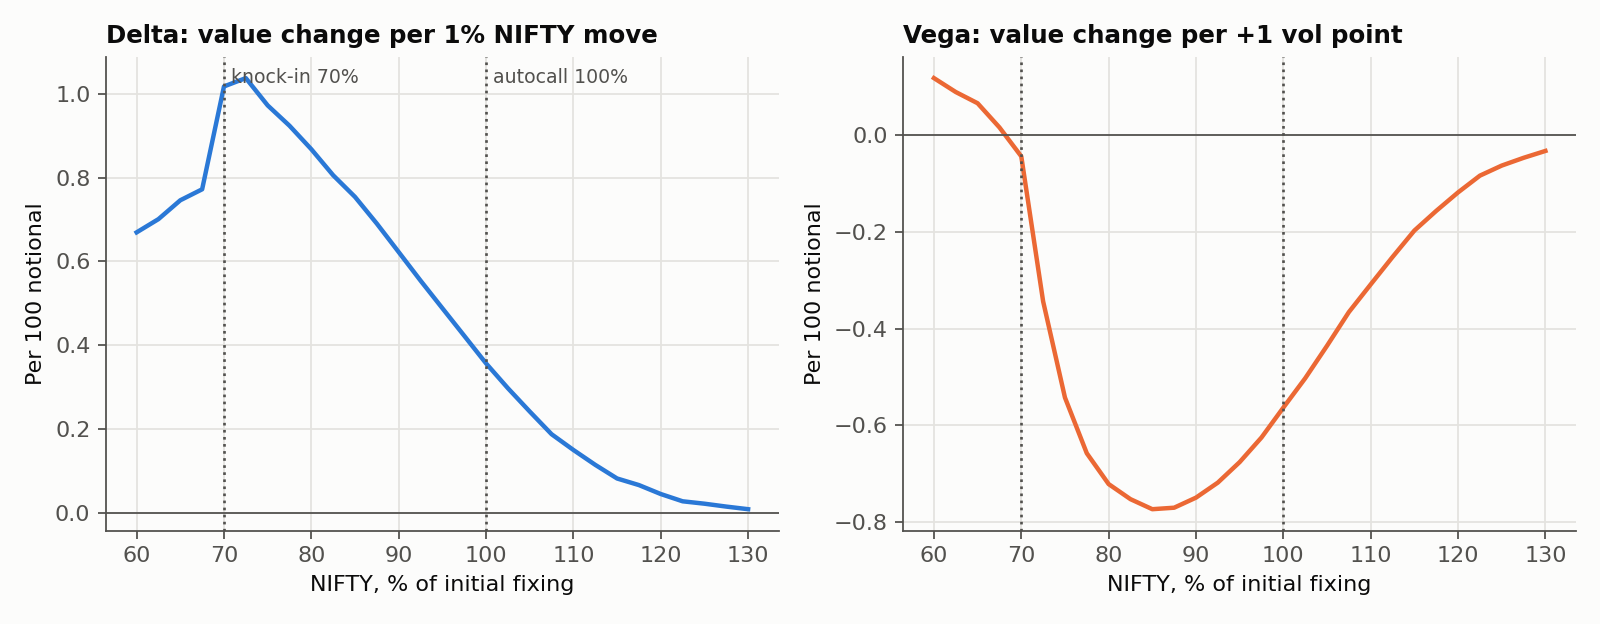
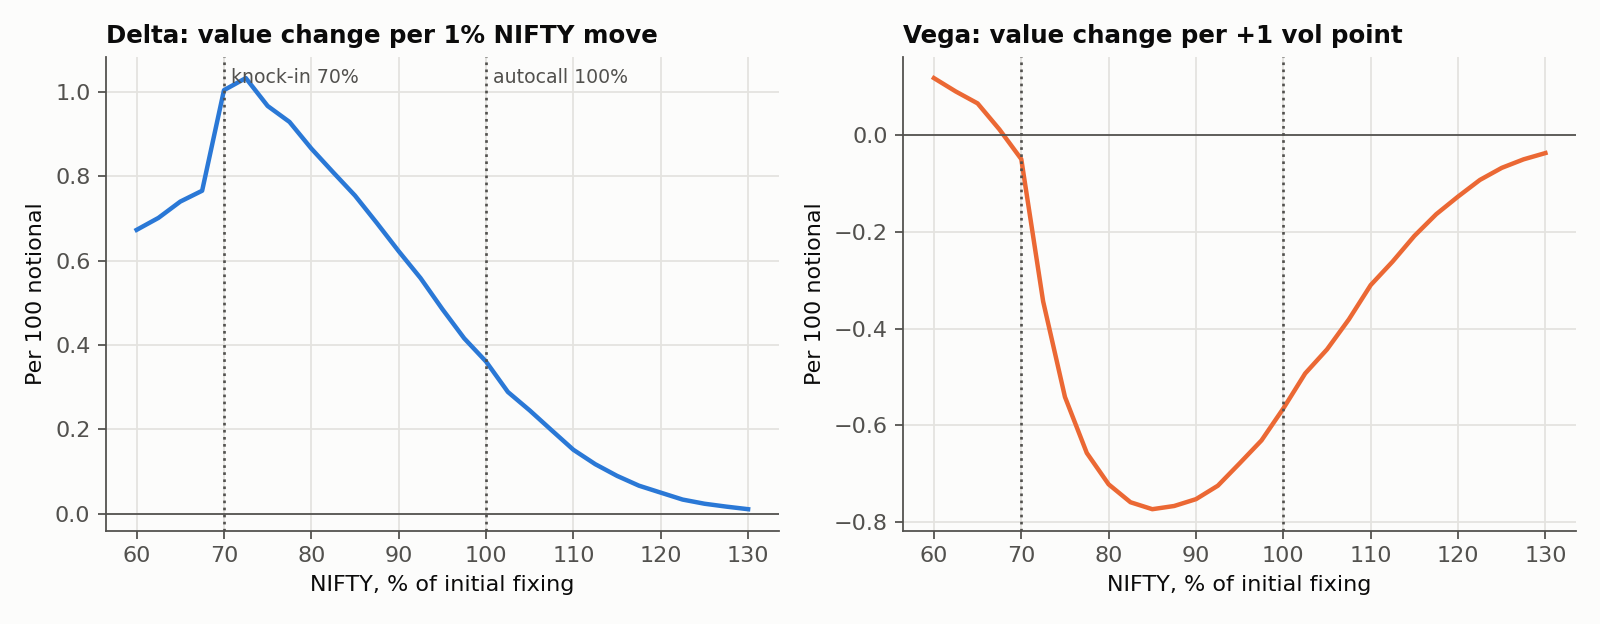
Add run_all script and regenerate results on the updated vol curve

diff --git a/scripts/layer2_autocall.py b/scripts/layer2_autocall.py
@@ -17,7 +17,7 @@ from mld.calibration import calibrate
 N = 400_000
 m = calibrate().market
 ps = simulate_for(SPEC, m, N, seed=11, antithetic=True)
-res = evaluate(SPEC, ps, m, credit_spread=SPREAD, control="full")
+res = evaluate(SPEC, ps, m, credit_spread=SPREAD, control="events")
 pv, principal, cyears, k_pay, knocked = path_pv(SPEC, ps, m, credit_spread=SPREAD)
 
 loss = principal < SPEC.notional - 1e-12
@@ -47,7 +47,7 @@ c_par = fair_coupon(SPEC, m, 100.0, N, seed=11, credit_spread=SPREAD)
 
 # Monitoring convention: daily closes vs final fixing only
 eur = replace(SPEC, ki_daily=False)
-r_eur = evaluate(eur, simulate_for(eur, m, N, seed=11, antithetic=True), m, credit_spread=SPREAD, control="full")
+r_eur = evaluate(eur, simulate_for(eur, m, N, seed=11, antithetic=True), m, credit_spread=SPREAD, control="events")
 mon = pd.DataFrame([
     dict(barrier="Daily closes (base)", price=res.price.value, prob_ki=res.prob_ki, prob_loss=res.prob_loss),
     dict(barrier="Final fixing only", price=r_eur.price.value, prob_ki=r_eur.prob_ki, prob_loss=r_eur.prob_loss),
@@ -58,7 +58,7 @@ write_md("layer2.md", f"""
 
 Term sheet: 3y on NIFTY 50, initial fixing {m.spot:,.2f}, annual observations, autocall at 100%,
 {SPEC.coupon_rate:.0%} p.a. snowball coupon, 70% knock-in on daily closes, issuer spread {SPREAD*1e4:.0f}bp.
-{N:,} paths, antithetic with control variates.
+{N:,} paths, antithetic with event control variates (mld/analytic.py).
 
 | Item | Value (per 100) |
 |---|---|

diff --git a/scripts/run_all.py b/scripts/run_all.py
@@ -1,0 +1,25 @@
+"""Regenerate every figure and results table, in layer order.
+
+    python scripts/run_all.py
+"""
+import runpy
+import time
+from pathlib import Path
+
+HERE = Path(__file__).resolve().parent
+STEPS = [
+    "layer1_convergence.py",
+    "layer2_autocall.py",
+    "layer3_variance_reduction.py",
+    "layer3_greeks.py",
+    "layer3_scenarios.py",
+    "layer4_calibration.py",
+    "../validation/quantlib_check.py",
+]
+
+if __name__ == "__main__":
+    for step in STEPS:
+        t = time.perf_counter()
+        print(f"\n== {step}")
+        runpy.run_path(str(HERE / step), run_name="__main__")
+        print(f"   done in {time.perf_counter() - t:.0f}s")

diff --git a/results/layer3_scenarios.md b/results/layer3_scenarios.md
@@ -4,31 +4,31 @@
 
 | vol \ spot | 60% | 65% | 70% | 75% | 80% | 85% | 90% | 95% | 100% | 105% | 110% | 115% | 120% | 125% | 130% |
 |---|---|---|---|---|---|---|---|---|---|---|---|---|---|---|---|
-| 8.9% | 59.07 | 64.62 | 70.68 | 81.66 | 88.03 | 92.78 | 96.49 | 99.16 | 100.72 | 101.44 | 101.70 | 101.76 | 101.78 | 101.78 | 101.78 |
-| 11.4% | 59.49 | 65.15 | 71.08 | 79.87 | 86.24 | 91.18 | 94.99 | 97.79 | 99.69 | 100.79 | 101.36 | 101.63 | 101.73 | 101.77 | 101.78 |
-| 13.9% | 59.84 | 65.41 | 71.10 | 78.40 | 84.35 | 89.24 | 93.19 | 96.19 | 98.40 | 99.84 | 100.74 | 101.25 | 101.53 | 101.67 | 101.73 |
-| 16.4% | 59.99 | 65.43 | 70.87 | 77.15 | 82.64 | 87.37 | 91.30 | 94.45 | 96.88 | 98.64 | 99.82 | 100.60 | 101.10 | 101.42 | 101.59 |
-| 18.9% | 59.99 | 65.29 | 70.49 | 76.08 | 81.16 | 85.69 | 89.50 | 92.69 | 95.27 | 97.26 | 98.71 | 99.73 | 100.45 | 100.93 | 101.27 |
-| 21.4% | 59.87 | 64.98 | 69.96 | 75.10 | 79.83 | 84.12 | 87.84 | 91.00 | 93.67 | 95.79 | 97.44 | 98.71 | 99.60 | 100.27 | 100.73 |
-| 23.9% | 59.64 | 64.59 | 69.34 | 74.14 | 78.62 | 82.69 | 86.30 | 89.41 | 92.09 | 94.32 | 96.09 | 97.51 | 98.60 | 99.44 | 100.07 |
-| 26.4% | 59.30 | 64.09 | 68.70 | 73.24 | 77.49 | 81.36 | 84.87 | 87.90 | 90.59 | 92.86 | 94.71 | 96.26 | 97.51 | 98.47 | 99.26 |
-| 28.9% | 58.91 | 63.52 | 68.00 | 72.32 | 76.39 | 80.11 | 83.48 | 86.49 | 89.10 | 91.42 | 93.36 | 94.96 | 96.31 | 97.43 | 98.31 |
+| 8.9% | 59.07 | 64.62 | 70.70 | 81.62 | 88.00 | 92.76 | 96.45 | 99.10 | 100.67 | 101.40 | 101.68 | 101.76 | 101.78 | 101.78 | 101.78 |
+| 11.4% | 59.49 | 65.15 | 71.10 | 79.85 | 86.23 | 91.14 | 94.94 | 97.73 | 99.62 | 100.73 | 101.32 | 101.61 | 101.72 | 101.76 | 101.78 |
+| 13.9% | 59.84 | 65.41 | 71.10 | 78.36 | 84.32 | 89.25 | 93.16 | 96.13 | 98.32 | 99.78 | 100.69 | 101.21 | 101.51 | 101.66 | 101.73 |
+| 16.4% | 59.99 | 65.44 | 70.89 | 77.14 | 82.63 | 87.35 | 91.26 | 94.37 | 96.82 | 98.55 | 99.75 | 100.55 | 101.06 | 101.38 | 101.57 |
+| 18.9% | 60.02 | 65.29 | 70.48 | 76.07 | 81.13 | 85.63 | 89.44 | 92.63 | 95.18 | 97.15 | 98.62 | 99.66 | 100.39 | 100.88 | 101.23 |
+| 21.4% | 59.88 | 65.00 | 69.96 | 75.08 | 79.81 | 84.06 | 87.80 | 90.93 | 93.57 | 95.70 | 97.34 | 98.60 | 99.53 | 100.21 | 100.67 |
+| 23.9% | 59.64 | 64.59 | 69.36 | 74.13 | 78.59 | 82.64 | 86.25 | 89.34 | 92.00 | 94.24 | 96.00 | 97.42 | 98.52 | 99.37 | 100.00 |
+| 26.4% | 59.32 | 64.09 | 68.70 | 73.22 | 77.46 | 81.32 | 84.81 | 87.84 | 90.48 | 92.77 | 94.63 | 96.16 | 97.39 | 98.39 | 99.17 |
+| 28.9% | 58.92 | 63.52 | 68.00 | 72.30 | 76.34 | 80.06 | 83.43 | 86.40 | 89.00 | 91.31 | 93.26 | 94.88 | 96.21 | 97.33 | 98.21 |
 
 ### Stress tests
 
 | scenario | price | pnl | prob_call_1y | prob_ki | prob_loss | expected_life |
 |---|---|---|---|---|---|---|
-| Base | 98.395 | 0.000 | 0.662 | 0.039 | 0.033 | 1.528 |
-| Spot -10% | 93.190 | -5.205 | 0.338 | 0.116 | 0.105 | 2.089 |
-| Spot -20% | 84.347 | -14.048 | 0.089 | 0.335 | 0.297 | 2.612 |
-| Spot -30% (at the barrier) | 71.100 | -27.295 | 0.008 | 1.000 | 0.759 | 2.888 |
-| Vol +5 pts | 95.271 | -3.124 | 0.603 | 0.153 | 0.113 | 1.650 |
-| Vol -3 pts | 99.905 | 1.510 | 0.719 | 0.007 | 0.006 | 1.420 |
-| Rates +100bp | 97.636 | -0.759 | 0.690 | 0.031 | 0.026 | 1.475 |
-| Issuer spread +200bp | 95.542 | -2.853 | 0.662 | 0.039 | 0.033 | 1.528 |
-| Mar-2020 style: spot -35%, vol +25 pts | 60.848 | -37.547 | 0.120 | 1.000 | 0.668 | 2.635 |
-| Taper tantrum: spot -10%, vol +8, rates +150bp | 86.945 | -11.450 | 0.401 | 0.344 | 0.247 | 2.008 |
-| Issuer stress: spot -20%, vol +10, spread +400bp | 71.922 | -26.473 | 0.203 | 0.659 | 0.470 | 2.414 |
+| Base | 98.316 | 0.000 | 0.658 | 0.039 | 0.034 | 1.537 |
+| Spot -10% | 93.159 | -5.156 | 0.340 | 0.116 | 0.106 | 2.089 |
+| Spot -20% | 84.323 | -13.993 | 0.094 | 0.338 | 0.299 | 2.607 |
+| Spot -30% (at the barrier) | 71.098 | -27.218 | 0.010 | 1.000 | 0.759 | 2.887 |
+| Vol +5 pts | 95.177 | -3.138 | 0.600 | 0.154 | 0.115 | 1.657 |
+| Vol -3 pts | 99.844 | 1.529 | 0.713 | 0.007 | 0.006 | 1.431 |
+| Rates +100bp | 97.565 | -0.750 | 0.685 | 0.031 | 0.026 | 1.484 |
+| Issuer spread +200bp | 95.450 | -2.865 | 0.658 | 0.039 | 0.034 | 1.537 |
+| Mar-2020 style: spot -35%, vol +25 pts | 60.849 | -37.467 | 0.122 | 1.000 | 0.667 | 2.633 |
+| Taper tantrum: spot -10%, vol +8, rates +150bp | 86.889 | -11.426 | 0.401 | 0.345 | 0.249 | 2.009 |
+| Issuer stress: spot -20%, vol +10, spread +400bp | 71.899 | -26.416 | 0.205 | 0.660 | 0.471 | 2.413 |
 
 Spot shocks keep the initial fixing at 22,421.95. "Rates" shifts the INR discount curve and,
 through the forward, the index drift; the dividend curve is held fixed. "Issuer spread" moves

diff --git a/results/layer3_greeks.md b/results/layer3_greeks.md
@@ -33,32 +33,32 @@ so the table's single-seed gaps are noise, not bias.
 
 | spot / S_ref | price | delta | vega |
 |---|---|---|---|
-| 0.6000 | 59.8243 | 0.6694 | 0.1175 |
-| 0.6250 | 62.6070 | 0.7009 | 0.0887 |
-| 0.6500 | 65.4380 | 0.7458 | 0.0655 |
-| 0.6750 | 68.2882 | 0.7720 | 0.0156 |
-| 0.7000 | 71.1364 | 1.0170 | -0.0442 |
-| 0.7250 | 74.9898 | 1.0370 | -0.3438 |
-| 0.7500 | 78.3816 | 0.9719 | -0.5427 |
-| 0.7750 | 81.4906 | 0.9234 | -0.6578 |
-| 0.8000 | 84.3475 | 0.8674 | -0.7215 |
-| 0.8250 | 86.9237 | 0.8054 | -0.7527 |
-| 0.8500 | 89.2603 | 0.7539 | -0.7734 |
-| 0.8750 | 91.3585 | 0.6902 | -0.7703 |
-| 0.9000 | 93.2185 | 0.6225 | -0.7495 |
-| 0.9250 | 94.8476 | 0.5545 | -0.7185 |
-| 0.9500 | 96.2255 | 0.4886 | -0.6761 |
-| 0.9750 | 97.4146 | 0.4230 | -0.6252 |
-| 1.0000 | 98.3996 | 0.3572 | -0.5634 |
-| 1.0250 | 99.2043 | 0.2981 | -0.5029 |
-| 1.0500 | 99.8489 | 0.2425 | -0.4357 |
-| 1.0750 | 100.3616 | 0.1885 | -0.3661 |
-| 1.1000 | 100.7540 | 0.1509 | -0.3088 |
-| 1.1250 | 101.0536 | 0.1155 | -0.2522 |
-| 1.1500 | 101.2705 | 0.0830 | -0.1975 |
-| 1.1750 | 101.4267 | 0.0673 | -0.1569 |
-| 1.2000 | 101.5464 | 0.0460 | -0.1187 |
-| 1.2250 | 101.6189 | 0.0287 | -0.0841 |
-| 1.2500 | 101.6705 | 0.0229 | -0.0633 |
-| 1.2750 | 101.7103 | 0.0160 | -0.0473 |
-| 1.3000 | 101.7354 | 0.0098 | -0.0330 |
+| 0.6000 | 59.8153 | 0.6728 | 0.1168 |
+| 0.6250 | 62.6149 | 0.7012 | 0.0892 |
+| 0.6500 | 65.4320 | 0.7398 | 0.0646 |
+| 0.6750 | 68.2887 | 0.7655 | 0.0108 |
+| 0.7000 | 71.1382 | 1.0038 | -0.0504 |
+| 0.7250 | 74.9920 | 1.0324 | -0.3438 |
+| 0.7500 | 78.3639 | 0.9663 | -0.5412 |
+| 0.7750 | 81.4793 | 0.9285 | -0.6568 |
+| 0.8000 | 84.3386 | 0.8654 | -0.7215 |
+| 0.8250 | 86.9221 | 0.8091 | -0.7585 |
+| 0.8500 | 89.2277 | 0.7540 | -0.7729 |
+| 0.8750 | 91.3262 | 0.6890 | -0.7662 |
+| 0.9000 | 93.1714 | 0.6222 | -0.7521 |
+| 0.9250 | 94.7840 | 0.5585 | -0.7244 |
+| 0.9500 | 96.1670 | 0.4850 | -0.6781 |
+| 0.9750 | 97.3473 | 0.4158 | -0.6309 |
+| 1.0000 | 98.3369 | 0.3608 | -0.5649 |
+| 1.0250 | 99.1312 | 0.2887 | -0.4927 |
+| 1.0500 | 99.7774 | 0.2450 | -0.4431 |
+| 1.0750 | 100.2958 | 0.1981 | -0.3811 |
+| 1.1000 | 100.6891 | 0.1517 | -0.3103 |
+| 1.1250 | 100.9975 | 0.1177 | -0.2620 |
+| 1.1500 | 101.2263 | 0.0899 | -0.2089 |
+| 1.1750 | 101.3917 | 0.0667 | -0.1641 |
+| 1.2000 | 101.5183 | 0.0502 | -0.1276 |
+| 1.2250 | 101.6020 | 0.0338 | -0.0934 |
+| 1.2500 | 101.6574 | 0.0240 | -0.0684 |
+| 1.2750 | 101.6999 | 0.0171 | -0.0509 |
+| 1.3000 | 101.7261 | 0.0110 | -0.0379 |

diff --git a/results/layer2.md b/results/layer2.md
@@ -2,34 +2,34 @@
 
 Term sheet: 3y on NIFTY 50, initial fixing 22,421.95, annual observations, autocall at 100%,
 9% p.a. snowball coupon, 70% knock-in on daily closes, issuer spread 100bp.
-400,000 paths, antithetic with control variates.
+400,000 paths, antithetic with event control variates (mld/analytic.py).
 
 | Item | Value (per 100) |
 |---|---|
-| Note fair value | 98.4009 +/- 0.0086 |
+| Note fair value | 98.3364 +/- 0.0037 |
 | Zero-coupon bond leg (100 at 3y, issuer curve) | 79.9715 |
-| Derivative overlay (note minus bond) | +18.4294 |
-| Structuring margin at issue price 100 | 1.5991 |
-| Expected life | 1.53 years |
-| Probability the barrier is ever touched | 3.90% |
-| Probability of capital loss | 3.29% |
-| Average redemption when there is a loss | 74.02 |
-| Coupon for a 98.00 fair value (2% margin) | 8.6219% p.a. |
-| Coupon for a 100.00 fair value (no margin) | 10.5663% p.a. |
+| Derivative overlay (note minus bond) | +18.3649 |
+| Structuring margin at issue price 100 | 1.6636 |
+| Expected life | 1.54 years |
+| Probability the barrier is ever touched | 3.91% |
+| Probability of capital loss | 3.34% |
+| Average redemption when there is a loss | 74.00 |
+| Coupon for a 98.00 fair value (2% margin) | 8.6897% p.a. |
+| Coupon for a 100.00 fair value (no margin) | 10.6334% p.a. |
 
 Outcome probabilities:
 
 | Outcome | Probability |
 |---|---|
-| Called yr 1 (109) | 0.6612 |
-| Called yr 2 (118) | 0.1480 |
-| Coupon at yr 3 (127) | 0.0645 |
-| Par at yr 3 (100) | 0.0933 |
-| Loss at yr 3 (<100) | 0.0329 |
+| Called yr 1 (109) | 0.6562 |
+| Called yr 2 (118) | 0.1489 |
+| Coupon at yr 3 (127) | 0.0660 |
+| Par at yr 3 (100) | 0.0955 |
+| Loss at yr 3 (<100) | 0.0334 |
 
 Barrier monitoring convention:
 
 | barrier | price | prob_ki | prob_loss |
 |---|---|---|---|
-| Daily closes (base) | 98.4009 | 0.0390 | 0.0329 |
-| Final fixing only | 98.7460 | 0.0134 | 0.0114 |
+| Daily closes (base) | 98.3364 | 0.0391 | 0.0334 |
+| Final fixing only | 98.6834 | 0.0133 | 0.0116 |

diff --git a/results/layer3_variance_reduction.md b/results/layer3_variance_reduction.md
@@ -2,12 +2,12 @@
 
 | Method | Price | SE (bp) | Variance reduction (x) | Seconds | Gain at equal time (x) |
 |---|---|---|---|---|---|
-| Plain MC | 98.430 | 1.907 | 1.000 | 3.420 | 1.000 |
-| Antithetic | 98.414 | 1.795 | 1.129 | 2.721 | 1.419 |
-| CV: ATM call | 98.430 | 1.793 | 1.131 | 3.437 | 1.125 |
-| Antithetic + vanilla CVs | 98.423 | 1.072 | 3.167 | 2.760 | 3.925 |
-| Antithetic + event CVs | 98.415 | 0.451 | 17.844 | 3.193 | 19.113 |
+| Plain MC | 98.352 | 1.925 | 1.000 | 3.679 | 1.000 |
+| Antithetic | 98.340 | 1.806 | 1.136 | 2.175 | 1.921 |
+| CV: ATM call | 98.352 | 1.807 | 1.135 | 3.695 | 1.130 |
+| Antithetic + vanilla CVs | 98.346 | 1.065 | 3.269 | 2.229 | 5.395 |
+| Antithetic + event CVs | 98.342 | 0.455 | 17.913 | 2.550 | 25.842 |
 
 "Variance reduction" is plain-MC variance over method variance at the same N. "Gain at equal time"
 also divides by run time, which is the number that matters when choosing a method.
-Fitted log-log slopes of SE vs N (theory -0.5): Plain MC: -0.510, Antithetic: -0.502, CV: ATM call: -0.509, Antithetic + vanilla CVs: -0.500, Antithetic + event CVs: -0.516.
+Fitted log-log slopes of SE vs N (theory -0.5): Plain MC: -0.509, Antithetic: -0.504, CV: ATM call: -0.509, Antithetic + vanilla CVs: -0.498, Antithetic + event CVs: -0.518.

diff --git a/results/validation.md b/results/validation.md
@@ -14,4 +14,4 @@
 | Down-and-in put 100/70, 3y | vs QL analytic, BGK-shifted barrier | 177.988779 | 177.175400 | +45.91 | 85.57 | 0.54 | bp of price |
 | Down-and-in put 100/70, 3y | vs QL analytic, continuous (no shift) | 177.988779 | 184.524857 | -354.21 | 82.16 | 4.31 | bp of price |
 | Autocall, 1 observation | our MC vs QL digital decomposition | 99.019780 | 99.018744 | +0.10 | 0.26 | 0.39 | bp of notional |
-| Autocall 3y, daily KI | our paths vs QuantLib paths | 98.418044 | 98.398721 | +1.93 | 3.82 | 0.51 | bp of notional |
+| Autocall 3y, daily KI | our paths vs QuantLib paths | 98.346491 | 98.328143 | +1.83 | 3.84 | 0.48 | bp of notional |
